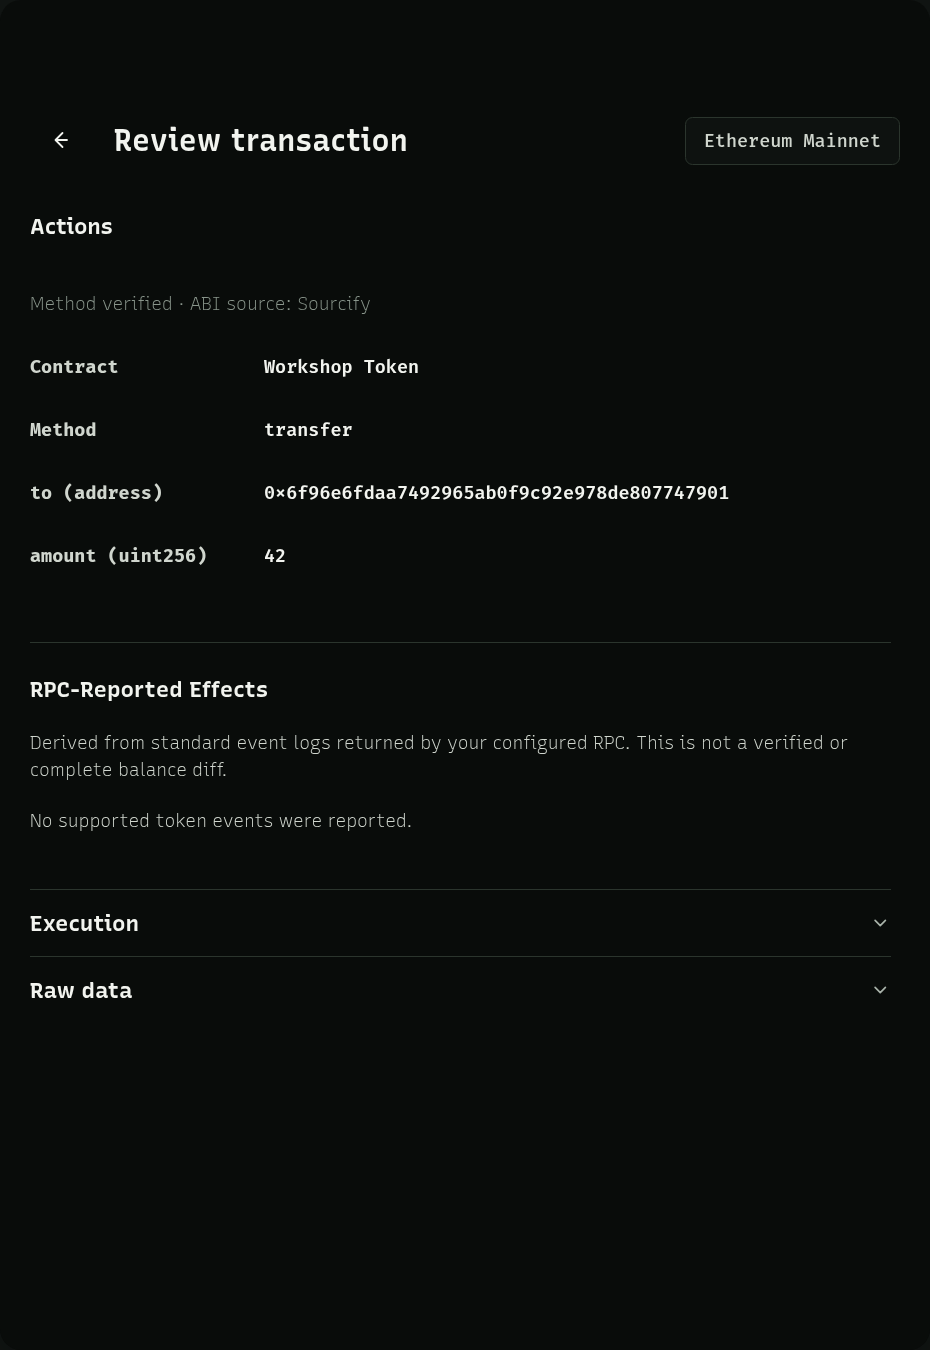
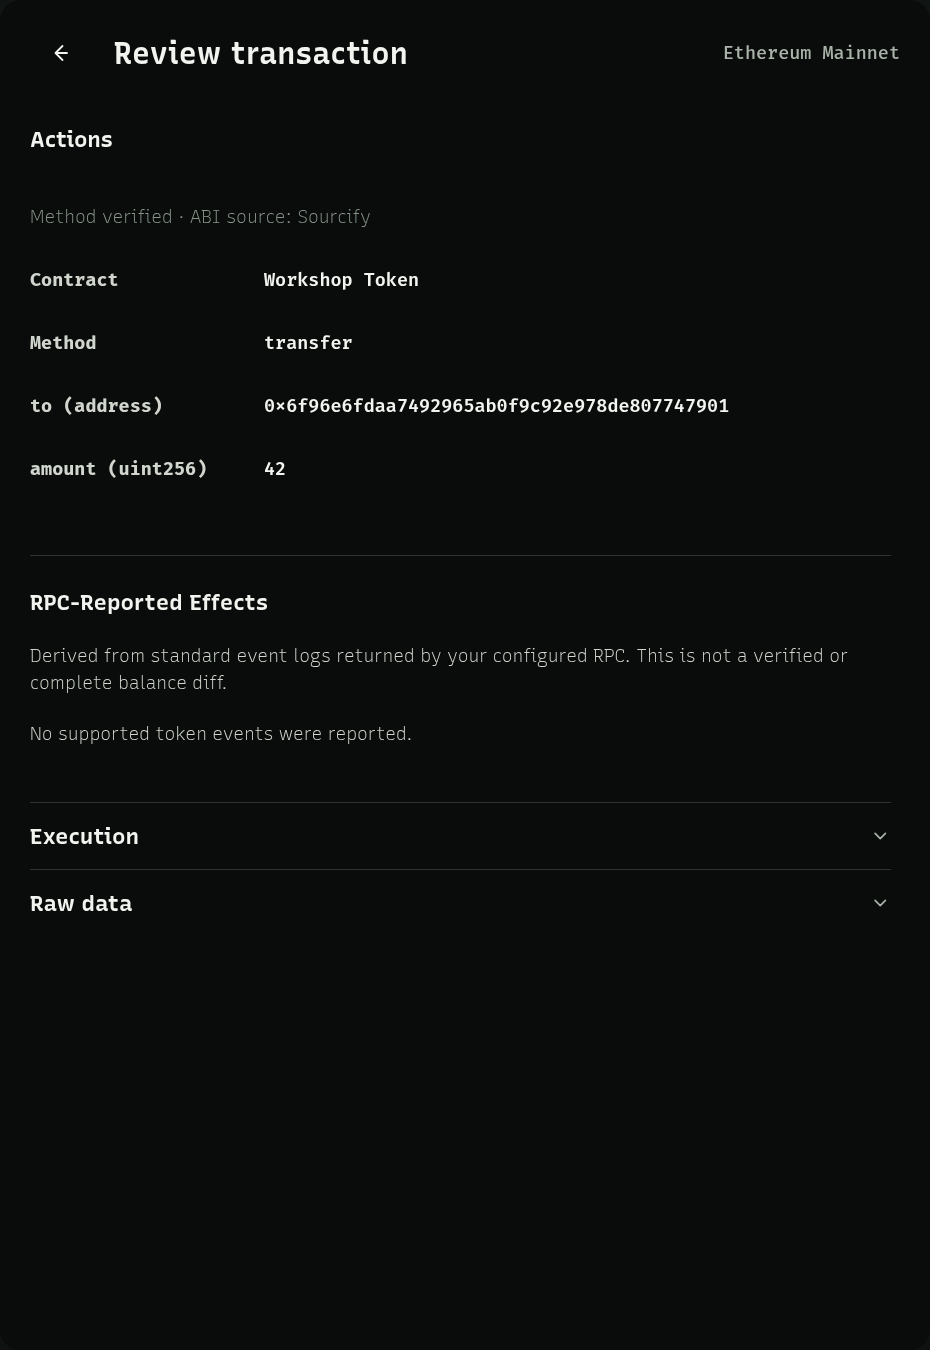
release: refresh browser store screenshots

diff --git a/STORE_SUBMISSION.md b/STORE_SUBMISSION.md
@@ -94,20 +94,37 @@ Privacy form answers:
 Use `src/icons/icon128.png` as the approved Character-flat store icon. It keeps
 the square artwork inside Chrome's 96-by-96 safe area on a transparent 128px
 canvas; regenerate it with `npm run store:icon`. The matching
-`store-assets/promo-440x280.png` and both v13 PNGs in
+`store-assets/promo-440x280.png` and all three v14 PNGs in
 `store-assets/screenshots/` are ready for submission. They are composed from
-isolated, deterministic captures of the actual Companion and Wren renderers;
-all displayed account, connection, origin, and transaction details are synthetic
-qualification fixtures. Do not publish historical Frame screenshots or reuse
-upstream-listing assets; they have no continuity with that listing.
+isolated captures of the actual Companion and Wren renderers. Pairing,
+connection, address, and transaction details come from disposable qualification
+fixtures with no authority or funds. Uniswap is shown only as a recognizable
+public dapp example; Wren is not affiliated with Uniswap. Do not publish
+historical Frame screenshots or reuse upstream-listing assets; they have no
+continuity with that listing.
 
 Screenshot regeneration:
 
-- Generate the connected Companion source capture in a private directory with
-  `WREN_COMPANION_QUALIFICATION_EXPORT=<directory> npm run qualify:browser -- --browser=chrome`.
-- Generate the two Wren source captures through Wren's isolated Xvfb UI
-  qualification using scenarios `dash-settings-local-connections-full-1` and
+- Generate the pairing and connected Companion source captures in a private
+  mode-0700 directory:
+
+  ```sh
+  WREN_COMPANION_QUALIFICATION_EXPORT=<directory> \
+    WREN_COMPANION_STORE_DAPP_URL=https://app.uniswap.org/ \
+    npm run qualify:browser -- --browser=chrome
+  ```
+
+  The optional dapp URL is restricted to this reviewed HTTPS example and is
+  used only after the normal local qualification assertions pass.
+
+- Read the disposable six-digit code from the Companion export, then generate
+  matching Wren source captures through Wren's isolated Xvfb UI qualification
+  with `WREN_UI_QUALIFICATION_PAIRING_CODE=<six digits>` and scenarios
+  `tray-native-pairing-full-1` and
   `tray-transaction-method-verified-full-1.5`.
+- Refresh `store-assets/source/uniswap-home.png` only from a clean disposable
+  browser profile. Review the page for account, wallet, notification, and
+  browser-profile details before retaining it.
 - Copy the reviewed source captures to `store-assets/source/`, then run
   `npm run store:screenshots` and `npm run brand:verify`.
 - Never replace the synthetic fixtures with a usable pairing code, funded wallet

diff --git a/store-assets/README.md b/store-assets/README.md
@@ -1,17 +1,21 @@
 # Store assets
 
-The promotional image and 1280x800 screenshots use only Wren-owned branding.
-The screenshots are composed from isolated qualification captures of the actual
-Wren and Companion renderers, not from a daily browser profile or wallet.
+The promotional image and 1280x800 screenshots use Wren-owned product branding.
+The screenshots are composed from isolated captures of the actual Wren and
+Companion renderers, not from a daily browser profile or wallet. The current
+Uniswap page is shown only as a recognizable public dapp example; Wren is not
+affiliated with Uniswap.
 
-The current Wren source captures came from desktop commit
-`a65d5e0ac4ee6360de3b1d450bc37c7a33b4aa65`. Their account, connection,
-origin, network, contract, address, and amount values are deterministic workshop
-fixtures with no authority or funds. The Companion capture came from commit
-`ca86392` and a private disposable browser profile.
+The current Wren source captures use the 0.1.0 release renderer from desktop
+commit `80e99f7e82db25ac4f4a2cb67c008571f8394b32`. The current Companion source
+captures use the 0.1.0 release renderer from commit
+`3e3a66bffaa079eb2b50dff14d1523dec3396ccf` and a private disposable browser
+profile. Their pairing, connection, network, contract, address, and amount data
+has no authority or funds; the pairing code expires with the disposable mock
+desktop process.
 
 Run `npm run store:screenshots` to compose the reviewed source captures into the
-two versioned Chrome Web Store PNGs. `npm run brand:verify` checks their exact
+three versioned Chrome Web Store PNGs. `npm run brand:verify` checks their exact
 inventory and dimensions. Increment the filename version when changing a visual
 so reviewers and local previews cannot reuse a cached image.
 
